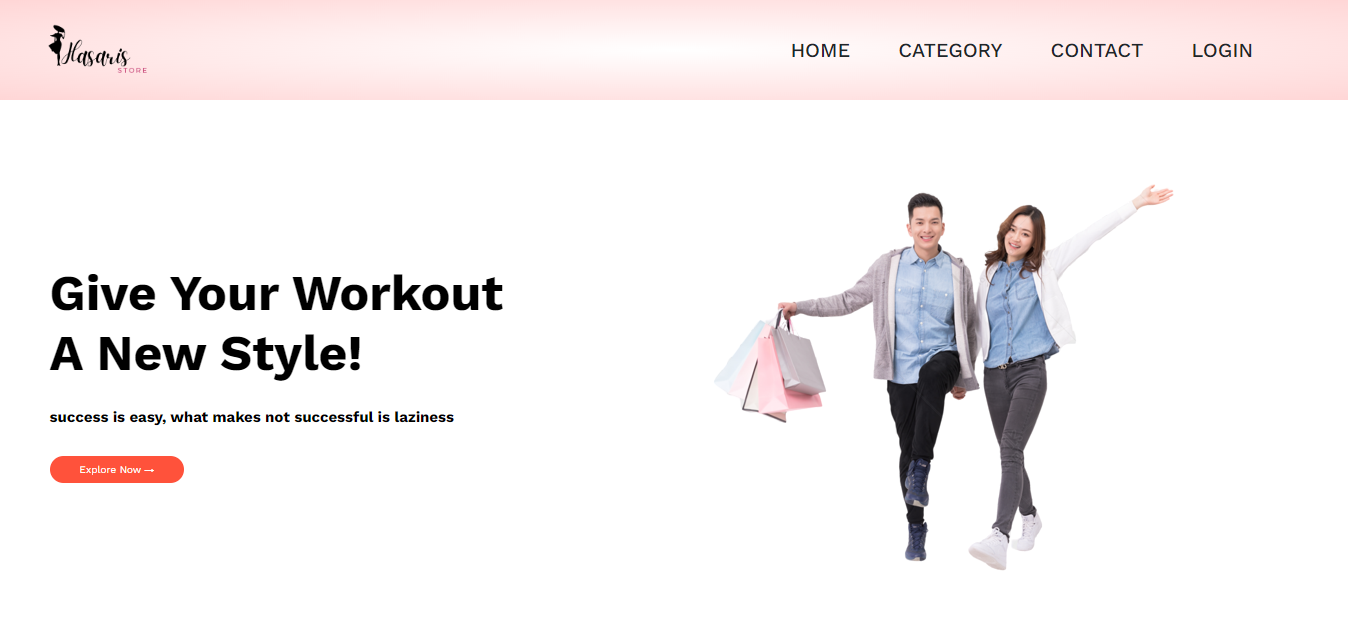
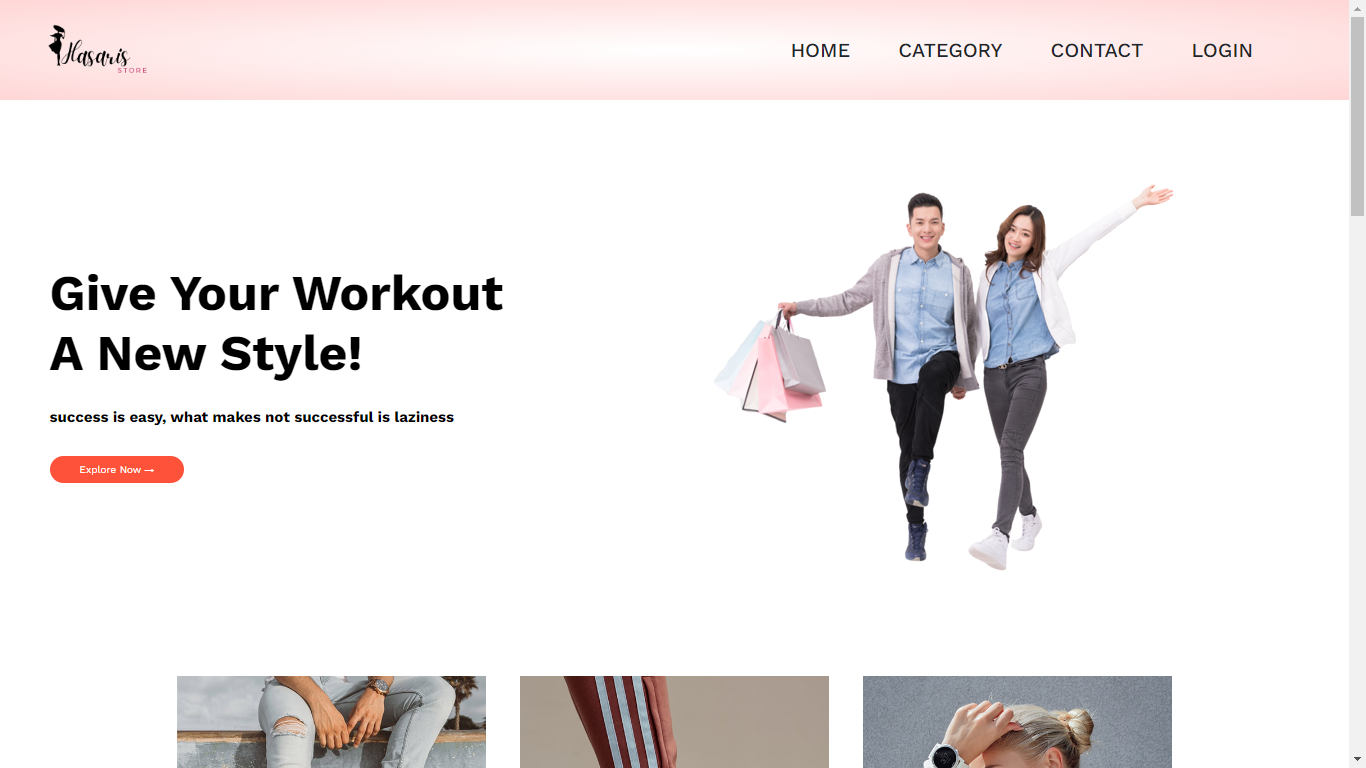
Add files via upload

diff --git a/index.html b/index.html
@@ -157,9 +157,9 @@
             </div>
             
     
-         <!-- -------------- PORTOFOLIO ----------------- -->
+         <!-- -------------- PORTOFOLIO WEBSITE ----------------- -->
   
-          <div class="top-header">
+          <div class="top">
               <h1>Website</h1>
           </div>
           <div class="portfolio-container">
@@ -167,8 +167,8 @@
                   <img src="assets/images/hasarisstore.png" alt="">
                   <div class="portfolio-layer">
                       <h4>Website</h4>
-                      <p>Website platform e- commerce yang dirancang 
-                        untuk menjual produk fashion,termasuk pakaian, aksesoris, dan sepatu.</p>
+                      <p>Website platform e-commerce yang dirancang 
+                        untuk menjual produk fashion.</p>
                       <a href="https://hasarisstore23.000webhostapp.com/ " target="blank"><i class='bx bx-link-external'></i></a>
                   </div>
               </div>
@@ -177,11 +177,65 @@
                   <div class="portfolio-layer">
                       <h4>Website</h4>
                       <p>Website rating film untuk menginput nilai rating film tersebut.</p>
-                      <a href="https://cinephile23.000webhostapp.com/" target="blank"><i class='bx bx-link-external'></i></a>
+                    
                   </div>
               </div>
-             
+              <div class="portfolio-box">
+                <img src="assets/images/pemilu.png" alt="">
+                <div class="portfolio-layer">
+                    <h4>Website</h4>
+                    <p>Website komisi pemilihan umum, tugas akhir.</p>
+                 
+                </div>
+            </div>
+            <div class="portfolio-box">
+                <img src="assets/images/smk.png" alt="">
+                <div class="portfolio-layer">
+                    <h4>Website</h4>
+                    <p>Website portofolio waktu SMK, untuk tugas akhir.</p>
+                    <a href="https://ihdaanisa.github.io/portofoliosmk/" target="blank"><i class='bx bx-link-external'></i></a>
+                </div>
+            </div>
+              </div>
+               <!-- -------------- PORTOFOLIO DESAIN UI/UX Figma ----------------- -->
+               <div class="top">
+                <h1>Desain UI/UX Figma</h1>
+            </div>
+            <div class="portfolio-container">
+                <div class="portfolio-box">
+                    <img src="assets/images/web rumah sakit.png" alt="">
+                    <div class="portfolio-layer">
+                        <h4>Desain UI/UX Figma</h4>
+                        <p>Desain website medifinder tema kesehatan web rumah sakit.</p>
+                        <a href="https://www.figma.com/proto/0AxDPbwtxOZsGFb4ad2Vq0/ui-ux?t=kdAjWq5ovkw5xVxb-1" target="blank"><i class='bx bx-link-external'></i></a>
+                    </div>
+                </div>
+                <div class="portfolio-box">
+                    <img src="assets/images/fashion.png" alt="">
+                    <div class="portfolio-layer">
+                        <h4>Desain UI/UX Figma</h4>
+                        <p>Sistem Manajemen Toko Berbasis Web pengelola toko.</p>
+                        <a href="https://www.figma.com/design/XhSvVzWLTdVrWHxYHUpVGe/Project-Management-Dashboard---FREE-(Community)?node-id=123-1926" target="blank"><i class='bx bx-link-external'></i></a>
+                    </div>
+                </div>
+                <div class="portfolio-box">
+                <img src="assets/images/sentus.png" alt="">
+                <div class="portfolio-layer">
+                    <h4>Desain UI/UX Figma</h4>
+                    <p>Website SentUs Percetakan Online.</p>
+                    <a href="https://www.figma.com/design/HQFZTizParpGXLOO5359RG/SentUs?node-id=0-1&m=dev&t=w7sHsr54147QnIfe-1" target="blank"><i class='bx bx-link-external'></i></a>
+                </div>
+            </div>
+            <div class="portfolio-box">
+                <img src="assets/images/pemilihanumum.png" alt="">
+                <div class="portfolio-layer">
+                    <h4>Desain UI/UX Figma</h4>
+                    <p>Website komisi pemilihan umum, tugas akhir.</p>
+                    <a href="https://www.figma.com/design/zMVyOXPtYBtS9H61Tm5Ils/Untitled?node-id=15-2&m=dev&t=D1wpfVcygE4v2Y2w-1" target="blank"><i class='bx bx-link-external'></i></a>
+                </div>
+            </div>
           </div>
+
       </section>
          <!-- -------------- CONTACT BOX ---------------- -->
 

diff --git a/assets/css/style.css b/assets/css/style.css
@@ -301,6 +301,19 @@ nav{
 .top-header span{
     color: #999;
 }
+.top{
+    text-align: center;
+    margin-bottom: 2em;
+    padding-block: 4em;
+}
+.top h1{
+    font-weight: 600;
+    color: var(--text-color-second);
+    margin-bottom: 10px;
+}
+.top span{
+    color: #999;
+}
 h3{
     font-size: 20px;
     font-weight: 600;
@@ -410,7 +423,7 @@ h3{
 }
 
 /* ----- PORTFOLIO ----- */
-/* Portfolio Section */
+
 .portfolio {
     background: var(--second-bg-color);
     padding: 4rem 0;
@@ -421,6 +434,7 @@ h3{
     text-align: center;
     font-size: 2.5rem;
     color: var(--text-color);
+    
 }
 
 
@@ -432,6 +446,7 @@ h3{
     max-width: 1200px;
     margin: 0 auto;
     padding: 0 2rem;
+
 }
 
 .portfolio-box {
@@ -442,6 +457,7 @@ h3{
     display: flex;
     flex-direction: column;
     transition: transform 0.3s ease;
+    box-shadow: 0 4px 8px rgba(0, 0, 0, 0.2), 0 6px 20px rgba(0, 0, 0, 0.19); 
 }
 
 .portfolio-box img {
@@ -510,15 +526,15 @@ h3{
 
 @media (max-width: 480px) {
     .portfolio h2 {
-        font-size: 1.5rem; /* Responsive font size */
+        font-size: 1.5rem; 
     }
 
     .portfolio-layer h4 {
-        font-size: 1rem; /* Responsive font size */
+        font-size: 1rem; 
     }
 
     .portfolio-layer p {
-        font-size: 0.7rem; /* Responsive font size */
+        font-size: 0.7rem; 
     }
 }
 @media (max-width: 300px) {

diff --git a/assets/js/main.js b/assets/js/main.js
@@ -60,10 +60,10 @@ sr.reveal('.featured-image',{delay: 300})
 
 /* -- PROJECT BOX -- */
 sr.reveal('.project-box',{interval: 200})
-
+sr.reveal('.portfolio-box',{interval: 200})
 /* -- HEADINGS -- */
 sr.reveal('.top-header',{})
-
+sr.reveal('.top',{})
 /* ----- ## -- SCROLL REVEAL LEFT_RIGHT ANIMATION -- ## ----- */
 
 /* -- ABOUT INFO & CONTACT INFO -- */
@@ -75,6 +75,7 @@ const srLeft = ScrollReveal({
 })
 
 srLeft.reveal('.about-info',{delay: 100})
+
 srLeft.reveal('.contact-info',{delay: 100})
 
 /* -- ABOUT SKILLS & FORM BOX -- */
